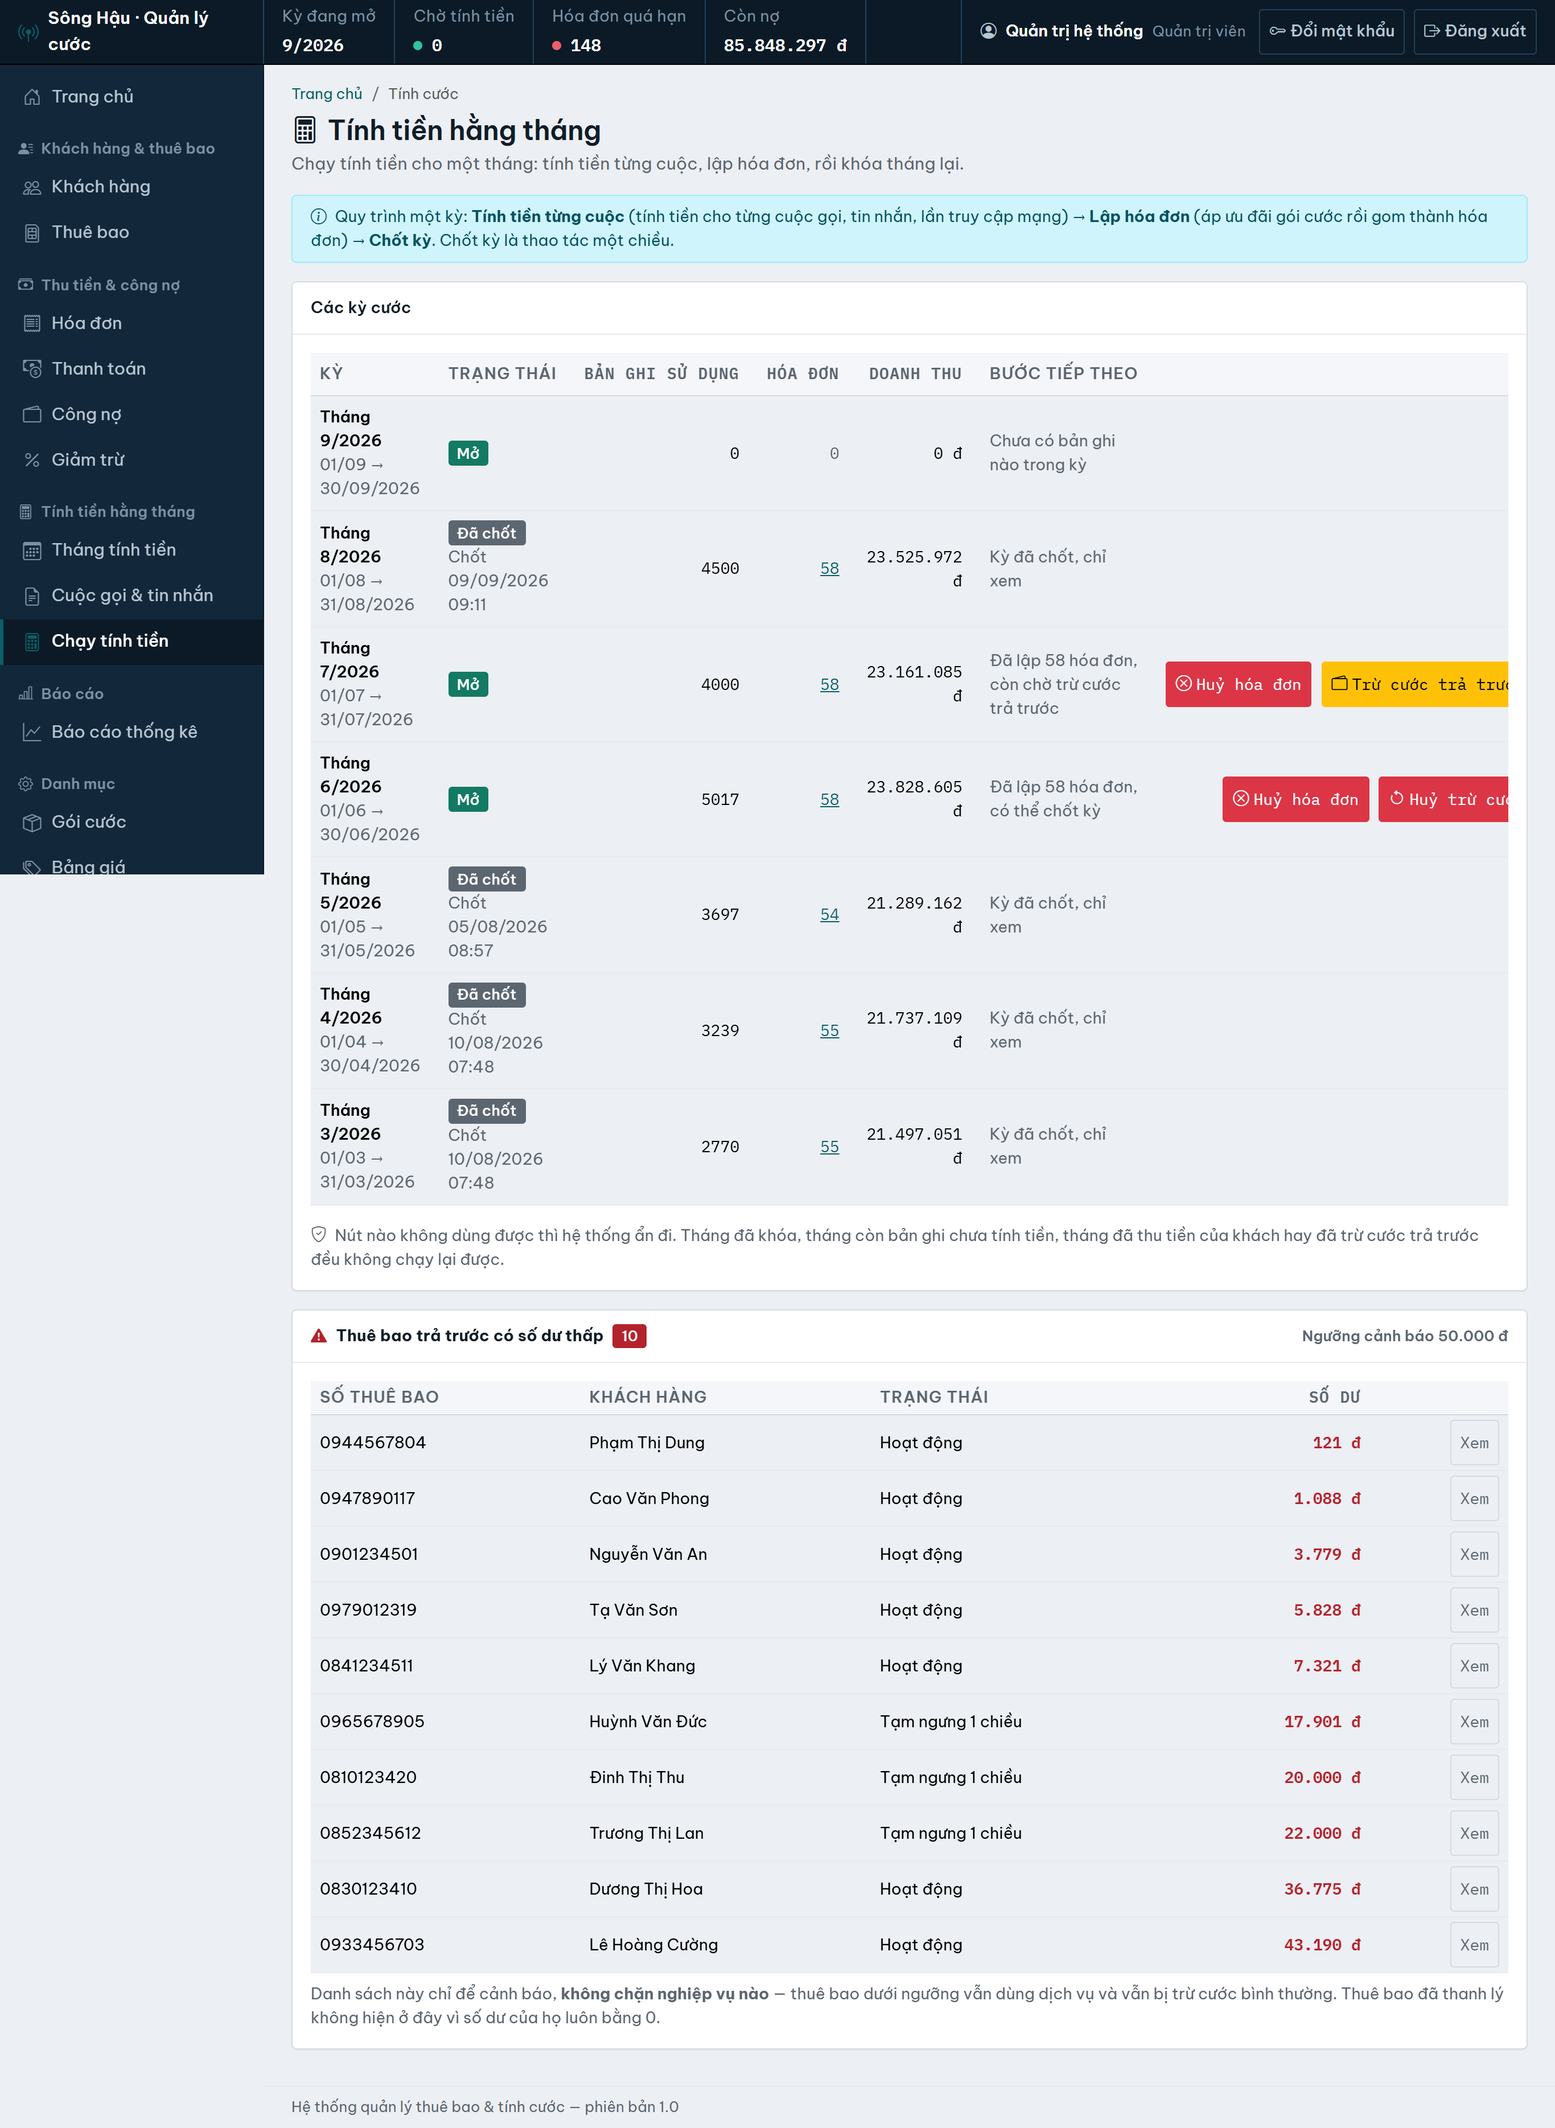
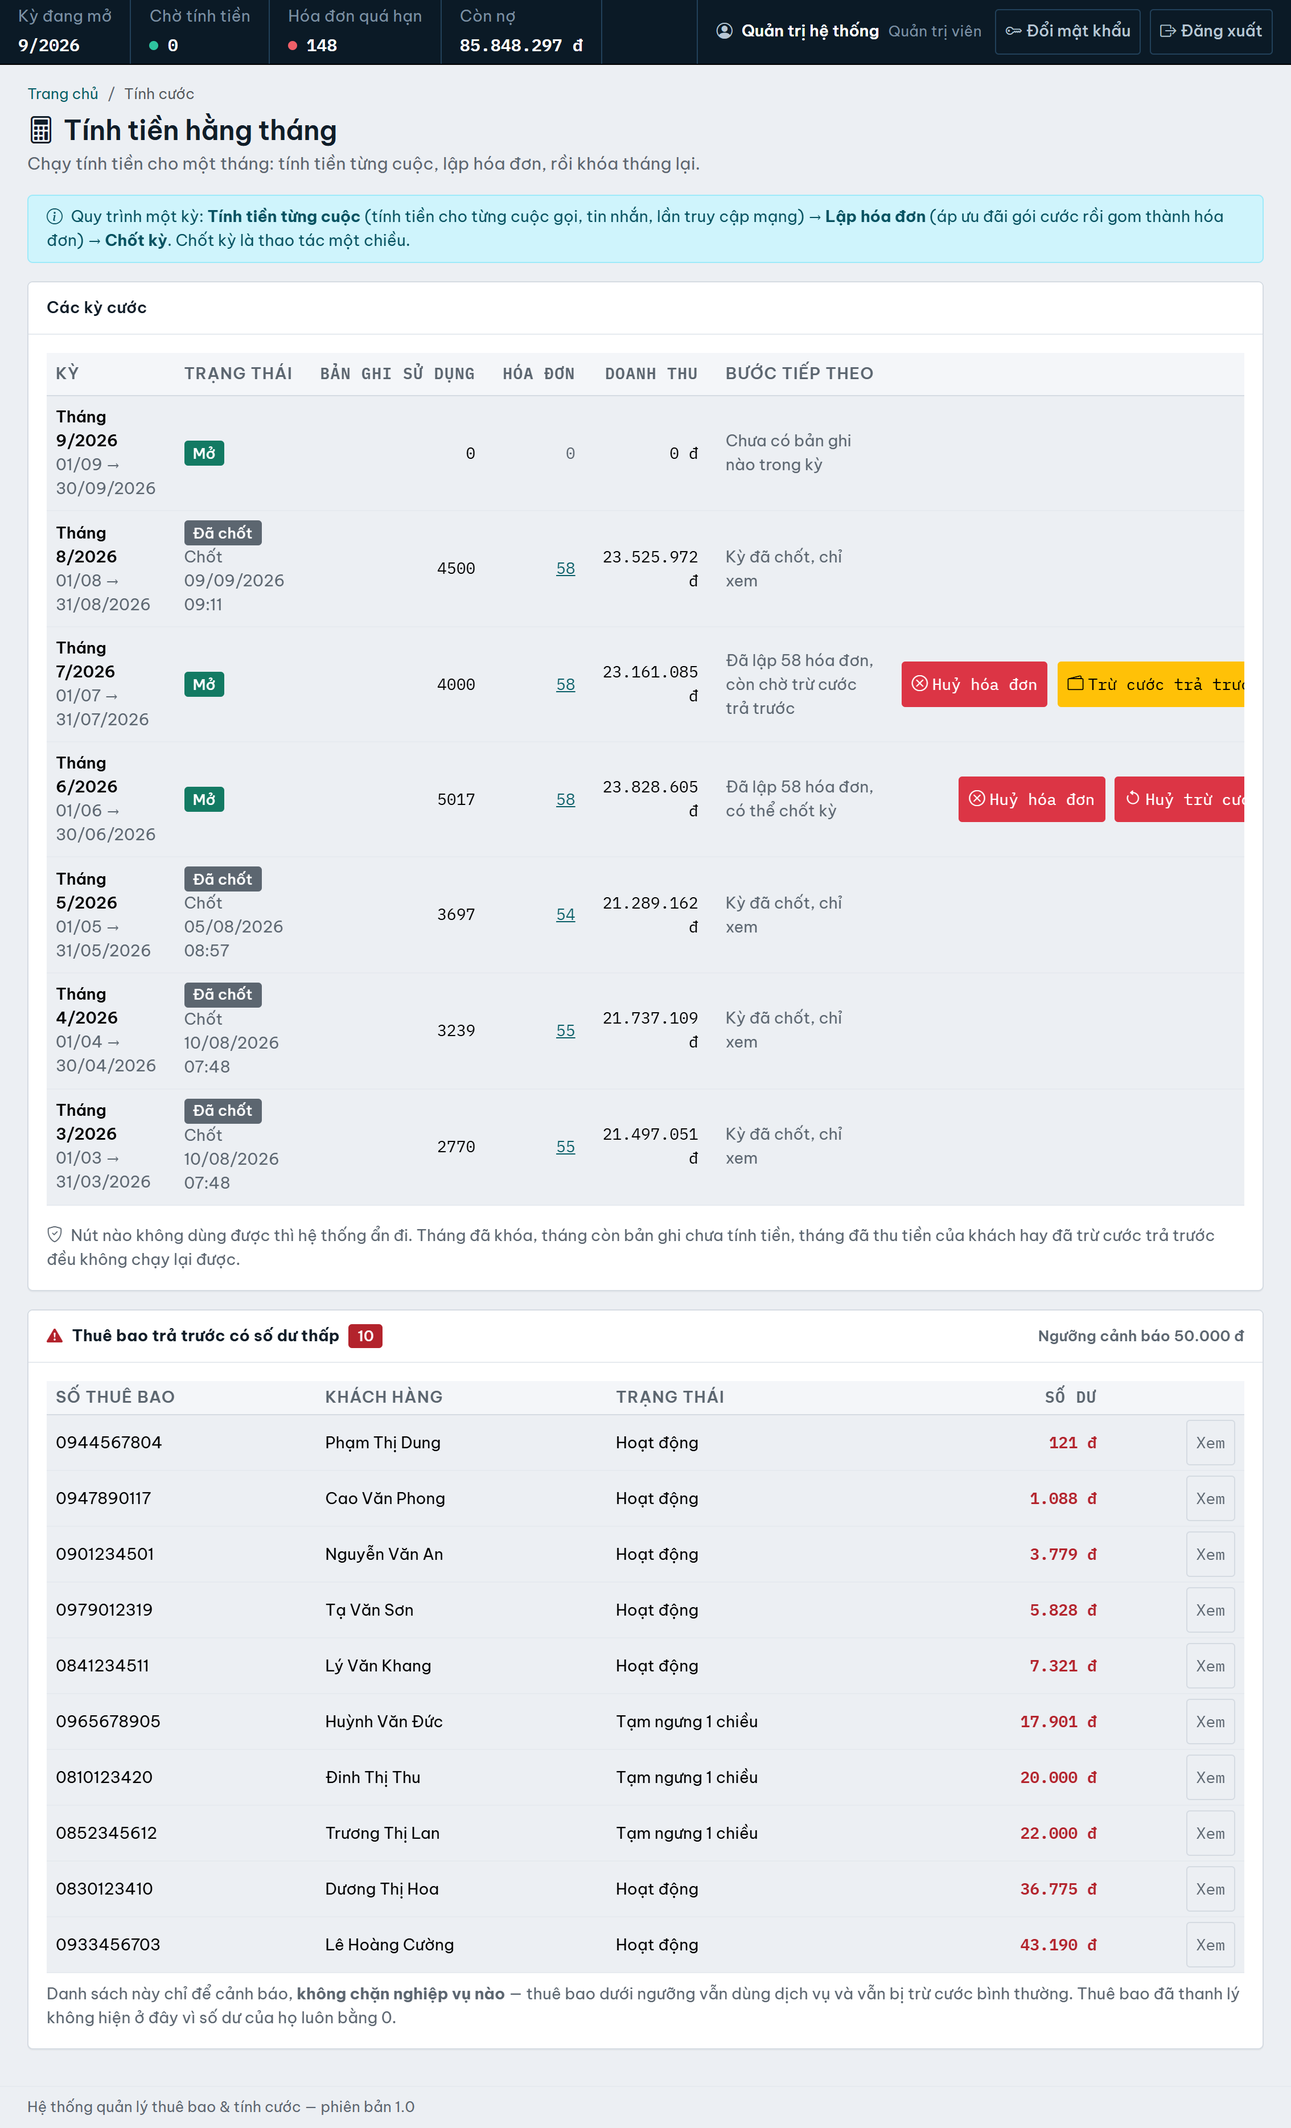
Sua th:if cung the th:replace o 6 bao cao, rao o Con no va link Xem bao cao, cat rail 22 anh
- Tach th:if ra <th:block> ngoai o 6 template bao-cao; them KiemTraUuTienThuocTinhTest
  quet toan bo template (343 test), doi chung am da kiem
- layout.html: o "Con no" tren thanh may chi hien cho KE_TOAN/ADMIN
- index.html: link "Xem bao cao" cua bieu do doanh thu chi hien cho KE_TOAN/ADMIN
- Mo /hoa-don mot lan de thanh may ve 148; chup lai 28 anh (6 sau sua th:if,
  6 ghi 148, 22 cat rail tu x=232px)
- Cap nhat DANH-SACH-ANH-DA-CHUP.md, CLAUDE.md, README.md

diff --git a/src/main/resources/templates/index.html b/src/main/resources/templates/index.html
@@ -166,7 +166,11 @@
     <div class="card shadow-sm mb-3">
         <div class="card-header bg-white d-flex align-items-center">
             <strong>Doanh thu theo kỳ</strong>
-            <a class="ms-auto small text-decoration-none khong-in" th:href="@{/bao-cao/doanh-thu-ky}">
+            <!--/* Biểu đồ chỉ có tổng theo kỳ, không có tên khách, nên ai cũng xem được;
+                   riêng link dẫn tới /bao-cao/doanh-thu-ky thì chỉ hiện cho vai trò vào
+                   được trang đó (SecurityConfig) — không bày ra một nút bấm vào là 403. */-->
+            <a class="ms-auto small text-decoration-none khong-in" th:href="@{/bao-cao/doanh-thu-ky}"
+               sec:authorize="hasAnyRole('KE_TOAN','ADMIN')">
                 Xem báo cáo <i class="bi bi-chevron-right"></i>
             </a>
         </div>

diff --git a/src/main/resources/templates/bao-cao/san-luong.html b/src/main/resources/templates/bao-cao/san-luong.html
@@ -12,8 +12,9 @@
                        ${ky != null} ? 'Kỳ ' + ${ky.thang} + '/' + ${ky.nam} : 'Chưa chọn kỳ')}"></div>
     <div th:replace="~{bao-cao/fragments :: chonKy('/bao-cao/san-luong')}"></div>
 
-    <div th:if="${sanLuong.rong()}"
-         th:replace="~{bao-cao/fragments :: khongCoDuLieu('Kỳ đã chọn chưa có cuộc gọi, tin nhắn hay lần truy cập mạng nào.')}"></div>
+    <th:block th:if="${sanLuong.rong()}">
+        <div th:replace="~{bao-cao/fragments :: khongCoDuLieu('Kỳ đã chọn chưa có cuộc gọi, tin nhắn hay lần truy cập mạng nào.')}"></div>
+    </th:block>
 
     <div th:unless="${sanLuong.rong()}">
         <div class="alert alert-secondary py-2 small" th:if="${kyTruoc == null}">

diff --git a/src/main/resources/templates/bao-cao/doanh-thu-goi-cuoc.html b/src/main/resources/templates/bao-cao/doanh-thu-goi-cuoc.html
@@ -12,8 +12,9 @@
                        ${ky != null} ? 'Kỳ ' + ${ky.thang} + '/' + ${ky.nam} : 'Chưa chọn kỳ')}"></div>
     <div th:replace="~{bao-cao/fragments :: chonKy('/bao-cao/doanh-thu-goi-cuoc')}"></div>
 
-    <div th:if="${#lists.isEmpty(danhSach)}"
-         th:replace="~{bao-cao/fragments :: khongCoDuLieu('Kỳ đã chọn chưa có hóa đơn nào.')}"></div>
+    <th:block th:if="${#lists.isEmpty(danhSach)}">
+        <div th:replace="~{bao-cao/fragments :: khongCoDuLieu('Kỳ đã chọn chưa có hóa đơn nào.')}"></div>
+    </th:block>
 
     <div class="row g-3" th:unless="${#lists.isEmpty(danhSach)}">
         <div class="col-lg-7">

diff --git a/src/main/resources/templates/fragments/layout.html b/src/main/resources/templates/fragments/layout.html
@@ -106,7 +106,9 @@
                     <span th:text="${@soLieu.so(tinhTrang.soQuaHan())}">0</span>
                 </span>
             </div>
-            <div class="o-so-lieu">
+            <!--/* Ô này là tổng tiền khách còn nợ — cùng mức quyền với /cong-no
+                   (SecurityConfig). Vai trò khác không thấy ô, không thấy chỗ trống. */-->
+            <div class="o-so-lieu" sec:authorize="hasAnyRole('KE_TOAN','ADMIN')">
                 <span class="nhan">Còn nợ</span>
                 <span class="gia-tri" th:text="${@soLieu.tienDong(tinhTrang.conNo())}">0 đ</span>
             </div>

diff --git a/src/main/resources/templates/bao-cao/doanh-thu-dich-vu.html b/src/main/resources/templates/bao-cao/doanh-thu-dich-vu.html
@@ -12,8 +12,9 @@
                        ${ky != null} ? 'Kỳ ' + ${ky.thang} + '/' + ${ky.nam} : 'Chưa chọn kỳ')}"></div>
     <div th:replace="~{bao-cao/fragments :: chonKy('/bao-cao/doanh-thu-dich-vu')}"></div>
 
-    <div th:if="${coCau.rong()}"
-         th:replace="~{bao-cao/fragments :: khongCoDuLieu('Kỳ đã chọn chưa có hóa đơn nào.')}"></div>
+    <th:block th:if="${coCau.rong()}">
+        <div th:replace="~{bao-cao/fragments :: khongCoDuLieu('Kỳ đã chọn chưa có hóa đơn nào.')}"></div>
+    </th:block>
 
     <div class="row g-3" th:unless="${coCau.rong()}">
         <div class="col-lg-7">

diff --git a/src/main/resources/templates/bao-cao/doanh-thu-ky.html b/src/main/resources/templates/bao-cao/doanh-thu-ky.html
@@ -11,8 +11,9 @@
     <div th:replace="~{bao-cao/fragments :: tieuDeBanIn('BÁO CÁO DOANH THU THEO KỲ',
                        'Toàn bộ kỳ cước')}"></div>
 
-    <div th:if="${#lists.isEmpty(danhSach)}"
-         th:replace="~{bao-cao/fragments :: khongCoDuLieu('Chưa có kỳ cước nào trong hệ thống.')}"></div>
+    <th:block th:if="${#lists.isEmpty(danhSach)}">
+        <div th:replace="~{bao-cao/fragments :: khongCoDuLieu('Chưa có kỳ cước nào trong hệ thống.')}"></div>
+    </th:block>
 
     <div th:unless="${#lists.isEmpty(danhSach)}">
         <div class="card shadow-sm mb-3">

diff --git a/src/main/resources/templates/bao-cao/thue-bao.html b/src/main/resources/templates/bao-cao/thue-bao.html
@@ -11,8 +11,9 @@
     <div th:replace="~{bao-cao/fragments :: tieuDeBanIn('BÁO CÁO THỐNG KÊ THUÊ BAO',
                        'Toàn bộ hệ thống')}"></div>
 
-    <div th:if="${thongKe.rong()}"
-         th:replace="~{bao-cao/fragments :: khongCoDuLieu('Chưa có thuê bao nào.')}"></div>
+    <th:block th:if="${thongKe.rong()}">
+        <div th:replace="~{bao-cao/fragments :: khongCoDuLieu('Chưa có thuê bao nào.')}"></div>
+    </th:block>
 
     <div th:unless="${thongKe.rong()}">
         <div class="row g-3 mb-3">

diff --git a/src/main/resources/templates/bao-cao/top-thue-bao.html b/src/main/resources/templates/bao-cao/top-thue-bao.html
@@ -36,8 +36,9 @@
         </div>
     </form>
 
-    <div th:if="${#lists.isEmpty(danhSach)}"
-         th:replace="~{bao-cao/fragments :: khongCoDuLieu('Kỳ đã chọn chưa có hóa đơn nào.')}"></div>
+    <th:block th:if="${#lists.isEmpty(danhSach)}">
+        <div th:replace="~{bao-cao/fragments :: khongCoDuLieu('Kỳ đã chọn chưa có hóa đơn nào.')}"></div>
+    </th:block>
 
     <div class="card shadow-sm" th:unless="${#lists.isEmpty(danhSach)}">
         <div class="card-header bg-white fw-semibold">

diff --git a/src/test/java/com/hanzo/billing/KiemTraUuTienThuocTinhTest.java b/src/test/java/com/hanzo/billing/KiemTraUuTienThuocTinhTest.java
@@ -1,0 +1,124 @@
+package com.hanzo.billing;
+
+import org.junit.jupiter.api.DisplayName;
+import org.junit.jupiter.api.Test;
+
+import java.io.IOException;
+import java.io.UncheckedIOException;
+import java.nio.charset.StandardCharsets;
+import java.nio.file.Files;
+import java.nio.file.Path;
+import java.util.ArrayList;
+import java.util.List;
+import java.util.regex.Matcher;
+import java.util.regex.Pattern;
+import java.util.stream.Stream;
+
+import static org.assertj.core.api.Assertions.assertThat;
+
+/**
+ * ⭐ BẤT BIẾN THỨ TỰ THUỘC TÍNH — không thẻ nào mang đồng thời một thuộc tính điều kiện và
+ * một thuộc tính chèn mảnh.
+ *
+ * <h2>Vì sao có test này</h2>
+ * <p>Thymeleaf xử lý các thuộc tính trên <b>cùng một thẻ</b> theo thứ tự ưu tiên cố định:
+ * {@code th:insert}/{@code th:replace} (100) chạy <b>trước</b> {@code th:each} (200) và
+ * {@code th:if}/{@code th:unless}/{@code sec:authorize} (300). Với {@code th:replace}, cả
+ * thẻ đã bị thay bằng mảnh ngay ở bước 100, nên {@code th:if} đứng cạnh nó <b>không bao giờ
+ * được đánh giá</b> — mảnh luôn hiện, bất kể điều kiện.</p>
+ *
+ * <p>Sáu màn hình báo cáo (doanh thu theo kỳ, theo gói, theo dịch vụ, sản lượng, thuê bao,
+ * top thuê bao) viết đúng kiểu đó cho khối "chưa có dữ liệu": khối này hiện <b>ngay cả khi
+ * bảng bên dưới đầy số</b>. Lỗi sống qua ba phase và 55 ảnh chụp, vì nó không ném lỗi, không
+ * làm test nào đỏ, và mắt người đọc thấy {@code th:if} thì tin là có điều kiện.</p>
+ *
+ * <p>Cách viết đúng dùng chung cho cả dự án: đặt điều kiện lên một {@code <th:block>} bọc
+ * ngoài, {@code th:replace} nằm ở thẻ con. {@code th:block} không để lại thẻ nào trong HTML.</p>
+ *
+ * <p>Test này là <b>bất biến tổng quát</b>: quét mọi thẻ của mọi template, không chỉ sáu chỗ
+ * đã biết. Không cần Spring hay MySQL.</p>
+ */
+@DisplayName("Bất biến thứ tự thuộc tính Thymeleaf")
+class KiemTraUuTienThuocTinhTest {
+
+    private static final Path THU_MUC_TEMPLATE = Path.of("src/main/resources/templates");
+
+    /**
+     * Một thẻ mở, kể cả khi trải nhiều dòng. Giá trị thuộc tính trong ngoặc kép có thể chứa
+     * {@code >} (ví dụ {@code th:text="${a > b}"}), nên không dùng {@code <[^>]*>} — mẫu đó
+     * cắt thẻ ở giữa và bỏ sót thuộc tính đứng sau.
+     */
+    private static final Pattern THE_MO = Pattern.compile(
+            "<[a-zA-Z][^<>\"']*(?:\"[^\"]*\"[^<>\"']*|'[^']*'[^<>\"']*)*>");
+
+    /** Thuộc tính có ưu tiên 200–300: chạy SAU thuộc tính chèn mảnh, nên bị vô hiệu. */
+    private static final Pattern DIEU_KIEN = Pattern.compile(
+            "\\s(th:if|th:unless|th:each|sec:authorize)\\s*=");
+
+    /** Thuộc tính chèn mảnh, ưu tiên 100 — chạy trước mọi thứ khác trên cùng thẻ. */
+    private static final Pattern CHEN_MANH = Pattern.compile("\\s(th:replace|th:insert)\\s*=");
+
+    private static final Pattern BINH_LUAN = Pattern.compile("<!--.*?-->", Pattern.DOTALL);
+
+    private static List<Path> moiTemplate() {
+        try (Stream<Path> duyet = Files.walk(THU_MUC_TEMPLATE)) {
+            return duyet.filter(p -> p.toString().endsWith(".html")).sorted().toList();
+        } catch (IOException ex) {
+            throw new UncheckedIOException("Không đọc được thư mục template", ex);
+        }
+    }
+
+    /**
+     * Đọc template, xoá bình luận nhưng <b>giữ nguyên số dòng</b> để thông báo lỗi chỉ đúng
+     * chỗ. Một thẻ nằm trong bình luận không phải là thẻ — đây là chỗ báo động giả kinh điển
+     * đã gặp ở {@link KiemTraDieuHuongTest}.
+     */
+    private static String docFile(Path p) {
+        try {
+            String noiDung = Files.readString(p, StandardCharsets.UTF_8);
+            Matcher m = BINH_LUAN.matcher(noiDung);
+            StringBuilder sb = new StringBuilder();
+            while (m.find()) {
+                m.appendReplacement(sb, Matcher.quoteReplacement(m.group().replaceAll("[^\n]", " ")));
+            }
+            m.appendTail(sb);
+            return sb.toString();
+        } catch (IOException ex) {
+            throw new UncheckedIOException("Không đọc được " + p, ex);
+        }
+    }
+
+    @Test
+    @DisplayName("⭐ Không thẻ nào mang đồng thời th:if/th:unless/th:each/sec:authorize và th:replace/th:insert")
+    void khongTheNaoMangDongThoiDieuKienVaChenManh() {
+        List<String> viPham = new ArrayList<>();
+        int soThe = 0;
+
+        for (Path template : moiTemplate()) {
+            String noiDung = docFile(template);
+            Matcher the = THE_MO.matcher(noiDung);
+            while (the.find()) {
+                soThe++;
+                Matcher dk = DIEU_KIEN.matcher(the.group());
+                Matcher cm = CHEN_MANH.matcher(the.group());
+                if (dk.find() && cm.find()) {
+                    int dong = 1 + (int) noiDung.chars().limit(the.start()).filter(c -> c == '\n').count();
+                    viPham.add(THU_MUC_TEMPLATE.relativize(template) + ":" + dong
+                            + "  " + dk.group(1) + " cùng thẻ với " + cm.group(1));
+                }
+            }
+        }
+
+        assertThat(soThe)
+                .as("Phải quét được hàng nghìn thẻ; đếm ra %d nghĩa là biểu thức nhận diện thẻ "
+                        + "sai và test này xanh mà chẳng kiểm gì (bài học 43.5)", soThe)
+                .isGreaterThan(2000);
+        assertThat(viPham)
+                .as("Đã quét %d thẻ trong %d template. Những thẻ dưới đây đặt điều kiện cùng "
+                        + "thẻ với th:replace/th:insert — Thymeleaf chạy phần chèn mảnh TRƯỚC, "
+                        + "nên điều kiện bị bỏ qua và mảnh luôn hiện. Bọc điều kiện lên một "
+                        + "<th:block> ngoài, để th:replace ở thẻ con:%n  %s",
+                        soThe, moiTemplate().size(), String.join("\n  ", viPham))
+                .isEmpty();
+    }
+}

diff --git a/CLAUDE.md b/CLAUDE.md
@@ -58,7 +58,7 @@ mvnw spring-boot:run
 mvnw spring-boot:run "-Dspring-boot.run.profiles=reset"
 ```
 
-Chạy test (342 test, cần MySQL đang chạy):
+Chạy test (343 test, cần MySQL đang chạy):
 
 ```bash
 mvnw test
@@ -265,6 +265,11 @@ nên **chỉ còn bản dump** `data-van-hanh.sql`.
 * **Hộp xác nhận phải trả tiêu điểm về nút đã mở nó** (`hidden.bs.modal` trong `app.js`).
   Bootstrap tự làm việc này khi modal mở bằng `data-bs-toggle`, nhưng ở đây modal mở bằng mã
   nên nó không biết nút nào gọi.
+* **Không đặt `th:if`/`th:unless`/`th:each`/`sec:authorize` cùng thẻ với `th:replace`/`th:insert`.**
+  Thymeleaf chạy `th:replace` (ưu tiên 100) **trước** điều kiện (300): thẻ đã bị thay bằng mảnh nên
+  điều kiện không bao giờ được xét — 6 màn hình báo cáo từng hiện khối "chưa có dữ liệu" ngay trên
+  bảng đầy số suốt ba phase. Bọc điều kiện lên `<th:block>` ngoài, `th:replace` ở thẻ con.
+  `KiemTraUuTienThuocTinhTest` quét toàn bộ template và đỏ ngay khi ai viết lại kiểu cũ.
 * **Mỗi màn hình đúng MỘT nút nổi bật.** Muốn phá luật thì khai `NUT-NOI-BAT-CO-Y:` kèm lý do
   ngay trong template, đừng sửa file kiểm thử.
 * **`HoaDon.phienBan` (`@Version`) không được bỏ.** Thiếu nó, hai người cùng thu tiền một hóa

diff --git a/README.md b/README.md
@@ -240,7 +240,7 @@ số khác và mọi con số trong báo cáo mất khả năng tái lập.
 mvnw test
 ```
 
-**342 test.** Phần lớn chạy độc lập không cần CSDL; 11 lớp cần MySQL đang chạy vì chúng kiểm
+**343 test.** Phần lớn chạy độc lập không cần CSDL; 11 lớp cần MySQL đang chạy vì chúng kiểm
 bất biến trên **dữ liệu thật** chứ không trên dữ liệu dựng sẵn — kể cả bất biến thanh toán
 **dưới tải đồng thời**.
 
@@ -318,7 +318,7 @@ vnpt-billing/
     │           ├── fragments/layout.html
     │           ├── error/{400,403,404,500}.html
     │           └── <phân-hệ>/*.html
-    └── test/java/com/hanzo/billing/     # 342 test
+    └── test/java/com/hanzo/billing/     # 343 test
 ```
 
 ---
